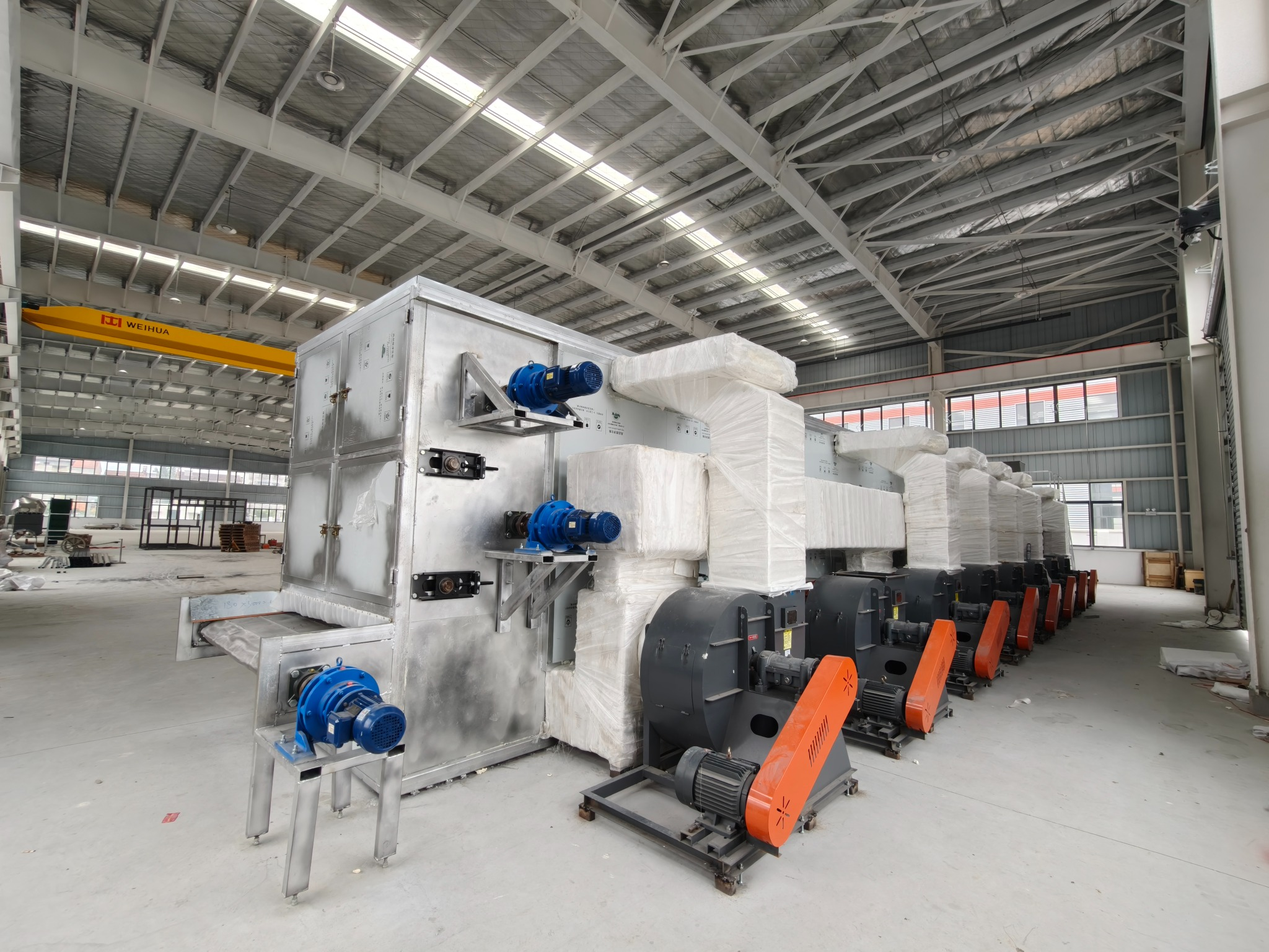
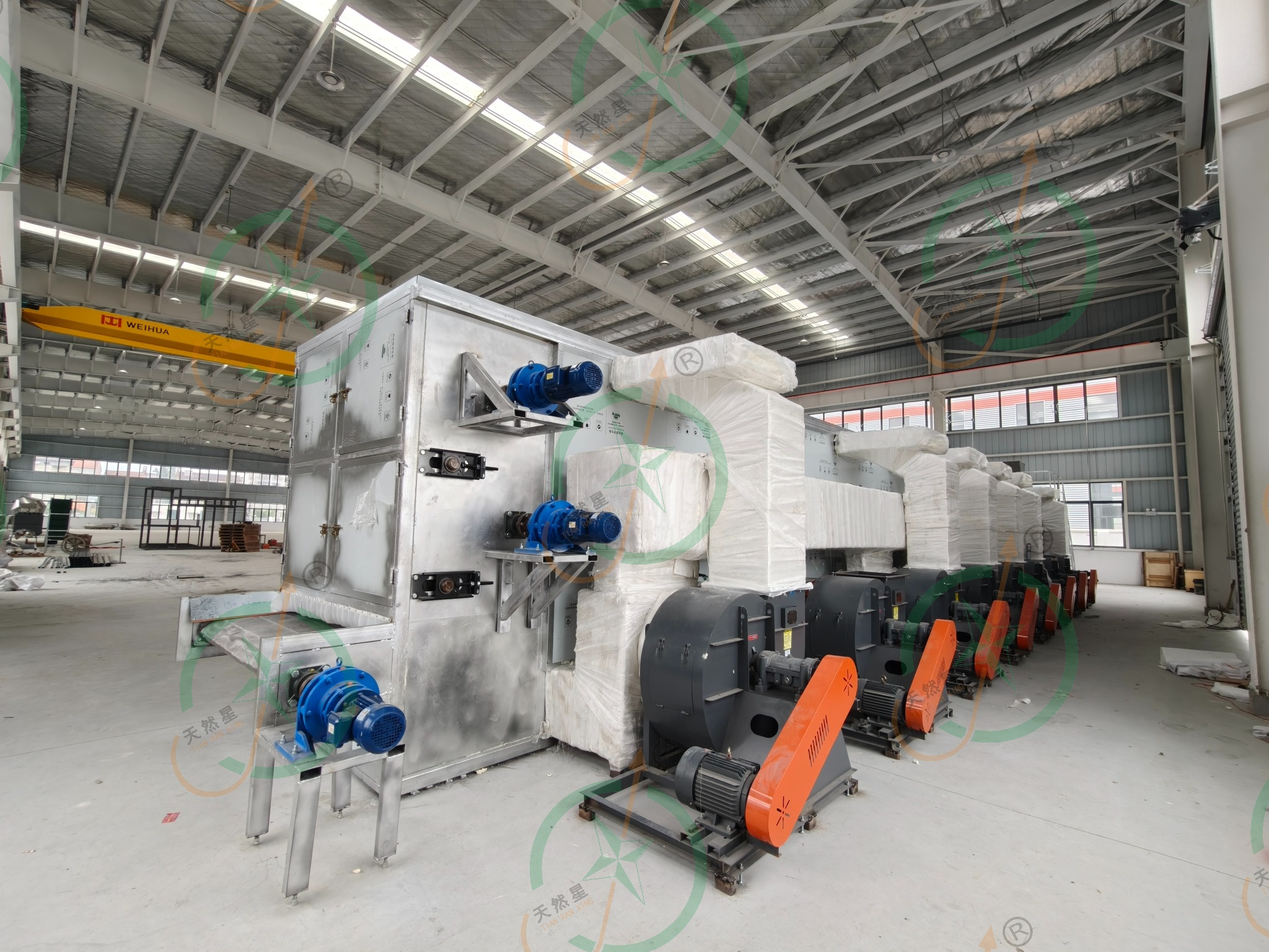
Embed approved Tian Ran Xing watermarks in all business images
Apply the accepted repeating -30 degree logo pattern at 20% opacity to all 24 public JPG/WebP files, including every responsive and full-size gallery variant. Preserve image URLs, dimensions, formats, QR, language flags and the brand mark. Add a watermark inventory check to the static generator and document regeneration from private retained originals.

diff --git a/scripts/check_watermarks.py b/scripts/check_watermarks.py
@@ -1,0 +1,34 @@
+"""Reject unwatermarked, unclassified or modified public images before a site build."""
+from pathlib import Path
+import hashlib
+import json
+
+ROOT = Path(__file__).resolve().parents[1]
+EXTENSIONS = {'.jpg', '.jpeg', '.png', '.webp', '.svg'}
+
+
+def verify_watermarks(root=ROOT):
+    assets = root / 'assets'
+    manifest = json.loads((root / 'source/image-watermark.json').read_text(encoding='utf-8'))
+    records = manifest['images'] + manifest['exempt']
+    expected = {record['path'] for record in records}
+    actual = {file.relative_to(assets).as_posix() for file in assets.rglob('*') if file.is_file() and file.suffix.lower() in EXTENSIONS}
+    if len(expected) != len(records) or actual != expected:
+        raise ValueError(f'Watermark image inventory mismatch; new={sorted(actual - expected)}, missing={sorted(expected - actual)}')
+    for record in records:
+        file = assets / record['path']
+        if file.resolve().parent != assets.resolve() and assets.resolve() not in file.resolve().parents:
+            raise ValueError('Image path escapes assets directory')
+        digest = hashlib.sha256(file.read_bytes()).hexdigest()
+        if digest != record.get('watermarkedSha256', record.get('sha256')):
+            raise ValueError('Unapproved or unwatermarked public image: ' + record['path'])
+    logo = next(record for record in manifest['exempt'] if record['path'] == 'company-mark.jpg')
+    if logo['sha256'] != manifest['logoSha256']:
+        raise ValueError('Approved logo hash differs')
+    if any(record['watermarkedSha256'] == record['originalSha256'] or record['changedPixelRatio'] < 0.01 for record in manifest['images']):
+        raise ValueError('An image has no verified watermark')
+    return {'business_images': len(manifest['images']), 'exempt_images': len(manifest['exempt']), 'passed': True}
+
+
+if __name__ == '__main__':
+    print(json.dumps(verify_watermarks(), ensure_ascii=False))

diff --git a/scripts/build.py b/scripts/build.py
@@ -13,6 +13,7 @@ import re
 import sys
 import xml.etree.ElementTree as ET
 from equipment_reference import overview_images, reference_specifications
+from check_watermarks import verify_watermarks
 
 ROOT = Path(__file__).resolve().parents[1]
 BASE = "https://allkonjac.com"
@@ -342,6 +343,7 @@ def main():
     args.add_argument("--check", action="store_true", help="validate all catalogs and render in memory without changing files")
     args.add_argument("--self-test", action="store_true", help="verify templates, links, schema, escaping and missing-key rejection using English in memory")
     options = args.parse_args()
+    verify_watermarks(ROOT)
     english = read_json(ROOT / "content/en.json")
     validate_catalog(english, "en")
     if options.self_test:

diff --git a/README.md b/README.md
@@ -1,5 +1,13 @@
 # ALL KONJAC website
 
+## Approved image watermark (2026-10-12)
+
+Every public business image embeds the approved Tian Ran Xing logo, rotated -30 degrees, at 20% opacity and 25% of the image's short edge, in a staggered repeating pattern. All responsive WebP sizes, full-size gallery images, background images and social-preview pictures are covered. Image URLs, dimensions and formats stay unchanged. The company logo, WeChat QR and language flags are exempt.
+
+`source/image-watermark.json` records approved original/output hashes and the complete image inventory. `scripts/build.py` checks these hashes before rendering; new or changed images must be classified and watermarked before a build succeeds. Run `python scripts/check_watermarks.py` for a standalone check.
+
+Regenerate with `node scripts/watermark-assets.cjs <private-original-assets-directory> <browser-executable>` using Node.js, Playwright and a Chromium-based browser. If needed, `ALL_KONJAC_NODE_MODULES` points at an existing dependency directory. The private input directory has the same relative image paths as `assets/`. The script always uses retained originals, verifies existing outputs and does not stack watermarks. Keep private originals and backups outside this repository and public deployment directory. Regeneration requires deliberate review of any changed originals or image inventory. Previously saved unwatermarked pictures cannot be recalled.
+
 Static international B2B website for https://allkonjac.com/. The deployed files are ordinary HTML, CSS, JavaScript and images. No server application or cloud build step is required.
 
 ## Public pages and languages
